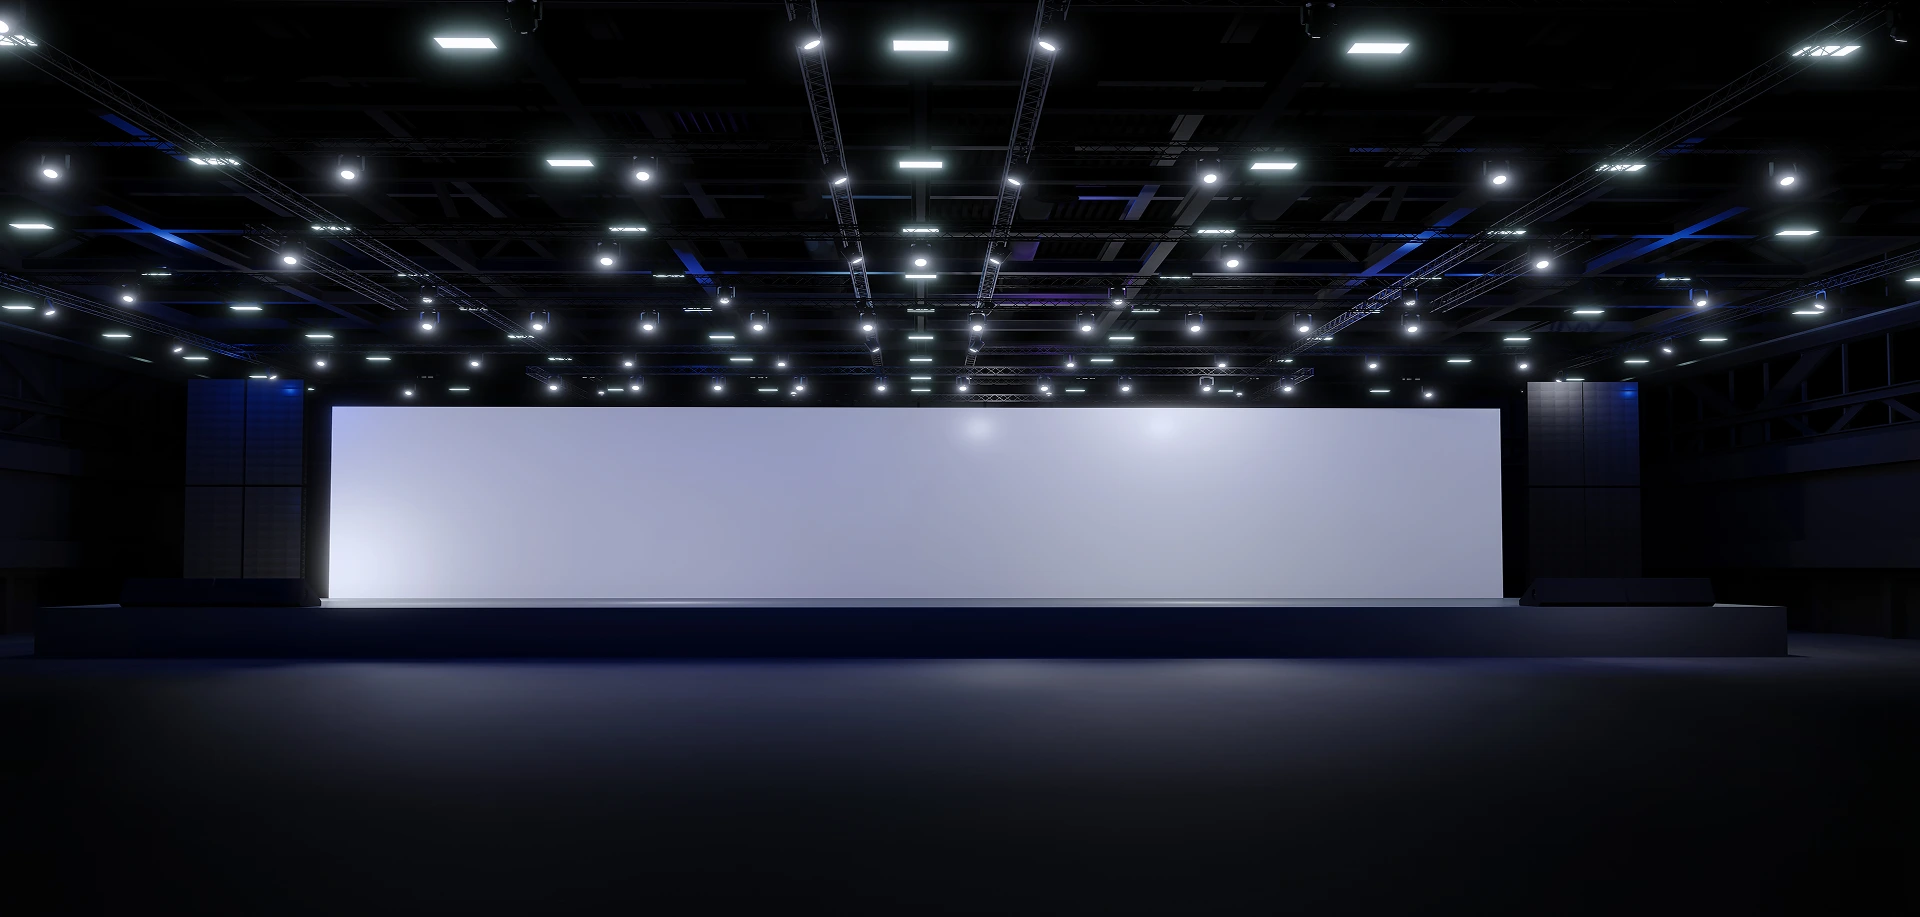
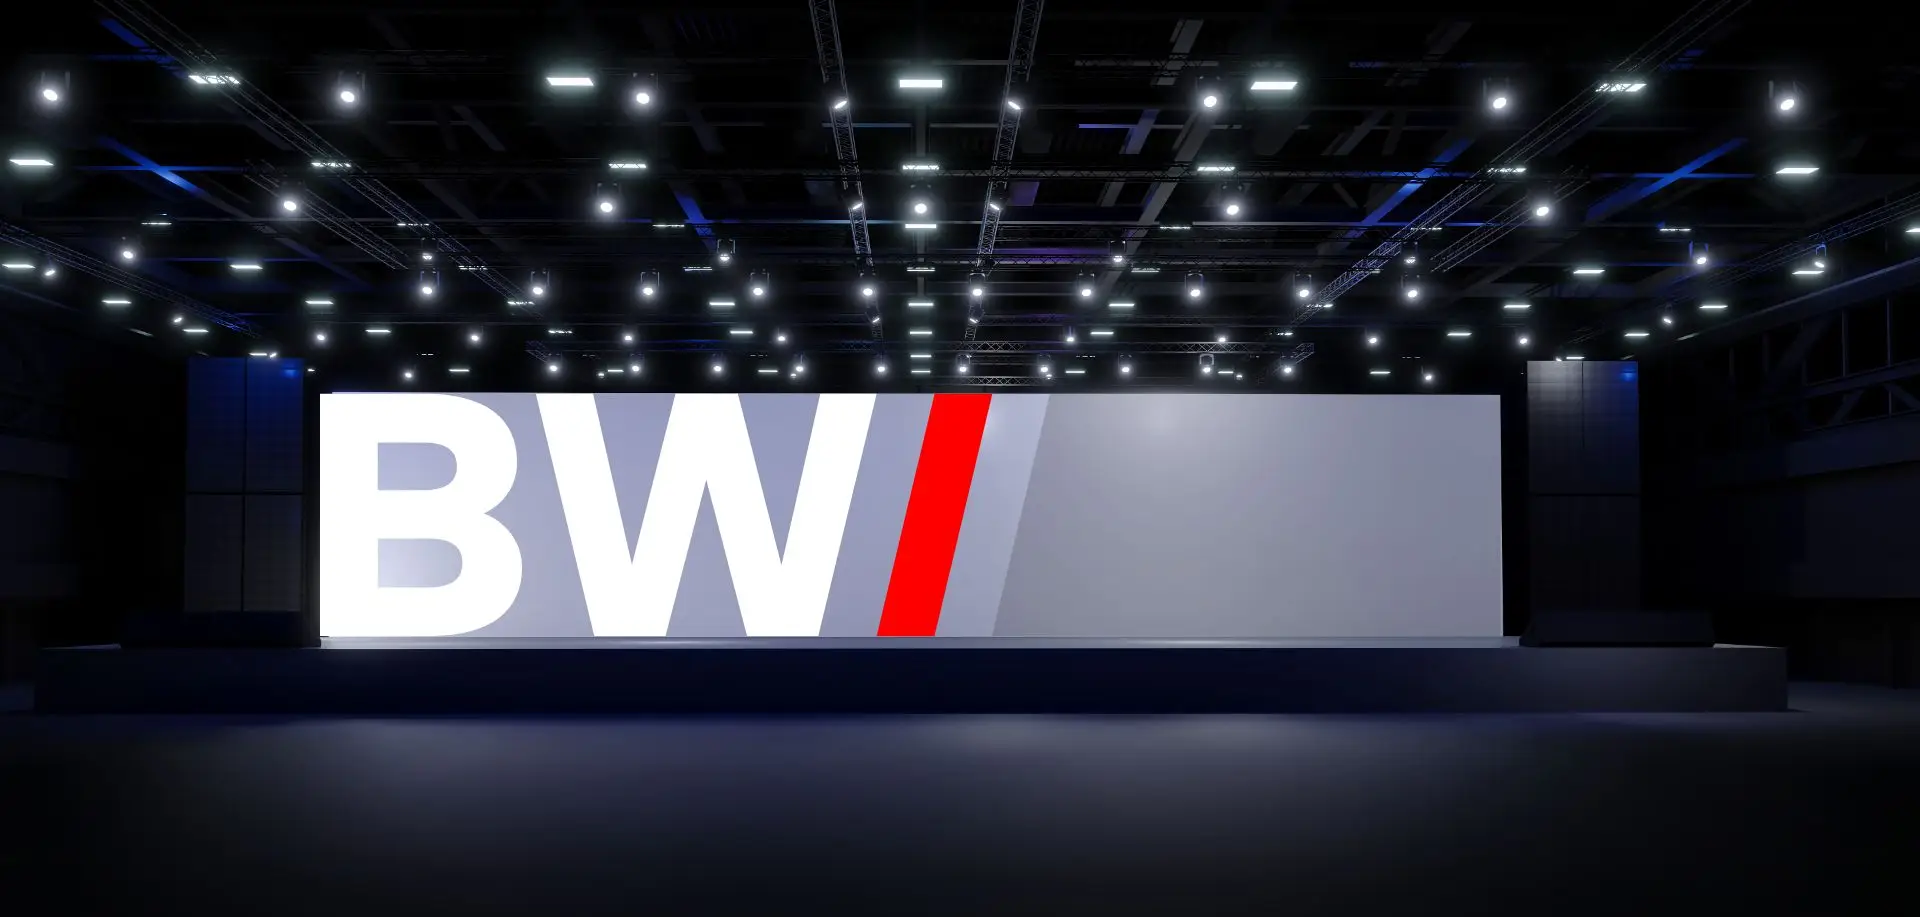
feat: 所有的banner图，全部替换完成

diff --git a/src/views/about/AboutView.vue b/src/views/about/AboutView.vue
@@ -1,77 +1,24 @@
 <script setup>
 import BaseLayout from '@/layout/BaseLayout.vue'
 import BasicAd from '@/components/BasicAd.vue'
-import HomeBanner from '@/assets/images/home/home-bg-nomask-s.jpg'
-import BwiSource from "@/assets/images/common/bwi.svg"
-import BannerImg from '@/assets/images/home/banner.png'
 
-import baseAdImg282 from '@/assets/images/about/base_ad_282.webp'
-import baseAdImg375 from '@/assets/images/about/base_ad_375.webp'
-import baseAdImg563 from '@/assets/images/about/base_ad_563.webp'
-import baseAdImg750 from '@/assets/images/about/base_ad_750.webp'
-import baseAdImg1125 from '@/assets/images/about/base_ad_1125.webp'
-import baseAdImg1500 from '@/assets/images/about/base_ad_1500.webp'
 import baseAdImg1920 from '@/assets/images/about/base_ad_1920.webp'
-import baseAdImg2880 from '@/assets/images/about/base_ad_2880.webp'
-import baseAdImg3840 from '@/assets/images/about/base_ad_3840.webp'
 const adSrcset = [
-    {
-        url: baseAdImg282,
-        media: '(max-width: 282px)',
-        type: 'image/webp'
-    },
-    {
-        url: baseAdImg375,
-        media: '(max-width: 375px)',
-        type: 'image/webp'
-    },
-    {
-        url: baseAdImg563,
-        media: '(max-width: 563px)',
-        type: 'image/webp'
-    },
-    {
-        url: baseAdImg750,
-        media: '(max-width: 750px)',
-        type: 'image/webp'
-    },
-    {
-        url: baseAdImg1125,
-        media: '(max-width: 1125px)',
-        type: 'image/webp'
-    },
-    {
-        url: baseAdImg1500,
-        media: '(max-width: 1500px)',
-        type: 'image/webp'
-    },
     {
         url: baseAdImg1920,
         media: '(max-width: 1920px)',
         type: 'image/webp'
     },
-    {
-        url: baseAdImg2880,
-        media: '(max-width: 2880px)',
-        type: 'image/webp'
-    },
-    {
-        url: baseAdImg3840,
-        media: '(max-width: 3840px)',
-        type: 'image/webp'
-    }
 ]
 import AboutSection1 from '@/views/about/components/AboutSection1.vue'
 import AboutSection2 from '@/views/about/components/AboutSection2.vue'
-console.log(typeof baseAdImg750)
 </script>
 
 <template>
     <BaseLayout>
-        <BasicAd class="about-basic-ad" :src="baseAdImg750"  :srcset="adSrcset">
+        <BasicAd class="about-basic-ad" :src="baseAdImg1920"  :srcset="adSrcset" :has-mask="false">
             <template v-slot:logo>
                 <div class="container  px-16  md:px-24 lg:pl-44 mx-auto m-8 text-white lg:w-[80%]">
-                    <img class="w-[35vw]" :src="BwiSource" alt="">
                 </div>
             </template>
         </BasicAd>

diff --git a/src/views/contact/index.vue b/src/views/contact/index.vue
@@ -9,63 +9,46 @@ const { fontSizeClamp: sectionTitleTextSize } = useResponsiveFontSize(36, 90)
 const { fontSizeClamp: sectionDecorationTextSize } = useResponsiveFontSize(72, 180)
 
 
-import  baseAdImg375 from '@/assets/images/contact/contact_ad_375.png'
-import  baseAdImg563 from '@/assets/images/contact/contact_ad_563.png'
-import  baseAdImg750 from '@/assets/images/contact/contact_ad_750.png'
-import  baseAdImg960 from '@/assets/images/contact/contact_ad_1125.png'
-import  baseAdImg1125 from '@/assets/images/contact/contact_ad_1125.png'
-import  baseAdImg1440 from '@/assets/images/contact/contact_ad_1500.png'
-import  baseAdImg1500 from '@/assets/images/contact/contact_ad_1500.png'
-import  baseAdImg1920 from '@/assets/images/contact/contact_ad_1920.png'
-import  baseAdImg3840 from '@/assets/images/contact/contact_ad_1920.png'
+import  baseAdImg375 from '@/assets/images/contact/contact_ad_375.webp'
+import  baseAdImg563 from '@/assets/images/contact/contact_ad_563.webp'
+import  baseAdImg750 from '@/assets/images/contact/contact_ad_750.webp'
+import  baseAdImg1125 from '@/assets/images/contact/contact_ad_1125.webp'
+import  baseAdImg1500 from '@/assets/images/contact/contact_ad_1500.webp'
+import  baseAdImg1920 from '@/assets/images/contact/contact_ad_1920.webp'
 
 const adSrcset = [
     {
         url: baseAdImg375,
         media: '(max-width: 375px)',
-        type: 'image/jpeg'
+        type: 'image/webp'
     },
     {
         url: baseAdImg563,
         media: '(max-width: 563px)',
-        type: 'image/jpeg'
+        type: 'image/webp'
     },
     {
         url: baseAdImg750,
         media: '(max-width: 750px)',
-        type: 'image/jpeg'
+        type: 'image/webp'
     },
-    {
-        url: baseAdImg960,
-        media: '(max-width: 960px)',
-        type: 'image/jpeg'
-    },
+
     {
         url: baseAdImg1125,
         media: '(max-width: 1125px)',
-        type: 'image/jpeg'
+        type: 'image/webp'
     },
-    {
-        url: baseAdImg1440,
-        media: '(max-width: 1440px)',
-        type: 'image/jpeg'
-    },
+
     {
         url: baseAdImg1500,
         media: '(max-width: 1500px)',
-        type: 'image/jpeg'
+        type: 'image/webp'
     },
     {
         url: baseAdImg1920,
         media: '(max-width: 1920px)',
-        type: 'image/jpeg'
+        type: 'image/webp'
     },
-
-    {
-        url: baseAdImg3840,
-        media: '(max-width: 3840px)',
-        type: 'image/jpeg'
-    }
 ]
 </script>
 

diff --git a/src/views/news_insights/components/NewsAd.vue b/src/views/news_insights/components/NewsAd.vue
@@ -6,15 +6,12 @@ import { useResponsiveFontSize } from '@/composables/useResponsiveFontSize.js'
 const { fontSizeClamp: baseAdTextSize } = useResponsiveFontSize(20, 96)
 
 
-import  baseAdImg375 from '@/assets/images/news_insights/news_bg_375.png'
-import  baseAdImg563 from '@/assets/images/news_insights/news_bg_563.png'
-import  baseAdImg750 from '@/assets/images/news_insights/news_bg_750.png'
-import  baseAdImg960 from '@/assets/images/news_insights/news_bg_1125.png'
-import  baseAdImg1125 from '@/assets/images/news_insights/news_bg_1125.png'
-import  baseAdImg1440 from '@/assets/images/news_insights/news_bg_1500.png'
-import  baseAdImg1500 from '@/assets/images/news_insights/news_bg_1500.png'
-import  baseAdImg1920 from '@/assets/images/news_insights/news_bg_1920.png'
-import  baseAdImg3840 from '@/assets/images/news_insights/news_bg_1920.png'
+import  baseAdImg375 from '@/assets/images/news_insights/news_bg_375.webp'
+import  baseAdImg563 from '@/assets/images/news_insights/news_bg_563.webp'
+import  baseAdImg750 from '@/assets/images/news_insights/news_bg_750.webp'
+import  baseAdImg1125 from '@/assets/images/news_insights/news_bg_1125.webp'
+import  baseAdImg1500 from '@/assets/images/news_insights/news_bg_1500.webp'
+import  baseAdImg1920 from '@/assets/images/news_insights/news_bg_1920.webp'
 
 const adSrcset = [
     {
@@ -32,21 +29,13 @@ const adSrcset = [
         media: '(max-width: 750px)',
         type: 'image/jpeg'
     },
-    {
-        url: baseAdImg960,
-        media: '(max-width: 960px)',
-        type: 'image/jpeg'
-    },
+
     {
         url: baseAdImg1125,
         media: '(max-width: 1125px)',
         type: 'image/jpeg'
     },
-    {
-        url: baseAdImg1440,
-        media: '(max-width: 1440px)',
-        type: 'image/jpeg'
-    },
+
     {
         url: baseAdImg1500,
         media: '(max-width: 1500px)',
@@ -57,12 +46,6 @@ const adSrcset = [
         media: '(max-width: 1920px)',
         type: 'image/jpeg'
     },
-
-    {
-        url: baseAdImg3840,
-        media: '(max-width: 3840px)',
-        type: 'image/jpeg'
-    }
 ]
 </script>
 

diff --git a/src/views/media_inventory/MediaInventory.vue b/src/views/media_inventory/MediaInventory.vue
@@ -10,15 +10,12 @@ import { useResponsiveFontSize } from '@/composables/useResponsiveFontSize.js'
 
 
 
-import  baseAdImg375 from '@/assets/images/media_inventory/base_ad_375.png'
-import  baseAdImg563 from '@/assets/images/media_inventory/base_ad_563.png'
-import  baseAdImg750 from '@/assets/images/media_inventory/base_ad_750.png'
-import  baseAdImg960 from '@/assets/images/media_inventory/base_ad_1125.png'
-import  baseAdImg1125 from '@/assets/images/media_inventory/base_ad_1125.png'
-import  baseAdImg1440 from '@/assets/images/media_inventory/base_ad_1500.png'
-import  baseAdImg1500 from '@/assets/images/media_inventory/base_ad_1500.png'
+import  baseAdImg375 from '@/assets/images/media_inventory/base_ad_375.webp'
+import  baseAdImg563 from '@/assets/images/media_inventory/base_ad_563.webp'
+import  baseAdImg750 from '@/assets/images/media_inventory/base_ad_750.webp'
+import  baseAdImg1125 from '@/assets/images/media_inventory/base_ad_1125.webp'
+import  baseAdImg1500 from '@/assets/images/media_inventory/base_ad_1500.webp'
 import  baseAdImg1920 from '@/assets/images/media_inventory/base_ad_1920.webp'
-import  baseAdImg3840 from '@/assets/images/media_inventory/base_ad_1920.webp'
 
 const adSrcset = [
     {
@@ -36,21 +33,13 @@ const adSrcset = [
         media: '(max-width: 750px)',
         type: 'image/jpeg'
     },
-    {
-        url: baseAdImg960,
-        media: '(max-width: 960px)',
-        type: 'image/jpeg'
-    },
+
     {
         url: baseAdImg1125,
         media: '(max-width: 1125px)',
         type: 'image/jpeg'
     },
-    {
-        url: baseAdImg1440,
-        media: '(max-width: 1440px)',
-        type: 'image/jpeg'
-    },
+
     {
         url: baseAdImg1500,
         media: '(max-width: 1500px)',
@@ -61,12 +50,6 @@ const adSrcset = [
         media: '(max-width: 1920px)',
         type: 'image/webp'
     },
-
-    {
-        url: baseAdImg3840,
-        media: '(max-width: 3840px)',
-        type: 'image/webp'
-    }
 ]
 
 const { fontSizeClamp: baseAdTextSize } = useResponsiveFontSize(20, 96)

diff --git a/src/views/services/services.vue b/src/views/services/services.vue
@@ -5,14 +5,11 @@ import ServicesSection from '@/views/services/components/ServicesSection.vue'
 
 
 import  baseAdImg375 from '@/assets/images/services/services_bg_375.webp'
-import  baseAdImg563 from '@/assets/images/services/services_bg_563.webp'
 import  baseAdImg750 from '@/assets/images/services/services_bg_750.webp'
 import  baseAdImg960 from '@/assets/images/services/services_bg_960.webp'
 import  baseAdImg1125 from '@/assets/images/services/services_bg_1125.webp'
 import  baseAdImg1440 from '@/assets/images/services/services_bg_1440.webp'
-import  baseAdImg1500 from '@/assets/images/services/services_bg_1500.webp'
 import  baseAdImg1920 from '@/assets/images/services/services_bg_1920.webp'
-import  baseAdImg3840 from '@/assets/images/services/services_bg_3840.webp'
 
 const adSrcset = [
     {
@@ -20,11 +17,7 @@ const adSrcset = [
         media: '(max-width: 375px)',
         type: 'image/webp'
     },
-    {
-        url: baseAdImg563,
-        media: '(max-width: 563px)',
-        type: 'image/webp'
-    },
+
     {
         url: baseAdImg750,
         media: '(max-width: 750px)',
@@ -46,21 +39,10 @@ const adSrcset = [
         type: 'image/webp'
     },
     {
-        url: baseAdImg1500,
-        media: '(max-width: 1500px)',
-        type: 'image/webp'
-    },
-    {
         url: baseAdImg1920,
         media: '(max-width: 1920px)',
         type: 'image/webp'
     },
-
-    {
-        url: baseAdImg3840,
-        media: '(max-width: 3840px)',
-        type: 'image/webp'
-    }
 ]
 
 import { useResponsiveFontSize } from '@/composables/useResponsiveFontSize.js'

diff --git a/src/components/BasicAd.vue b/src/components/BasicAd.vue
@@ -17,6 +17,10 @@ const props = defineProps({
         type: Boolean,
         default: true,
     },
+    hasMask: {
+        type: Boolean,
+        default: true
+    }
 })
 const basicAdRef = ref(null);
 let basicAdHeight = 0;
@@ -69,7 +73,7 @@ onMounted(() => {
                 />
             </picture>
         </div>
-        <div class="absolute top-0 left-0 z-10 w-full h-full bg-black bg-opacity-50">
+        <div class="absolute top-0 left-0 z-10 w-full h-full bg-black bg-opacity-50" v-if="hasMask">
             <div
                 class="w-full h-full flex flex-col justify-center items-center text-white "
                 v-if="showLogo || $refs.logo"
@@ -80,7 +84,7 @@ onMounted(() => {
                 </slot>
             </div>
         </div>
-        <div class="absolute top-1/2 left-0 transform -translate-y-1/2 z-20 w-full lg:pb-28">
+        <div class="absolute top-1/2 left-0 transform -translate-y-1/2 z-20 w-full lg:pb-28" >
             <div class="w-[82%]  mx-auto text-white  leading-none font-bold">
                 <HeaderPlaceHandler></HeaderPlaceHandler>
                 <slot></slot>
